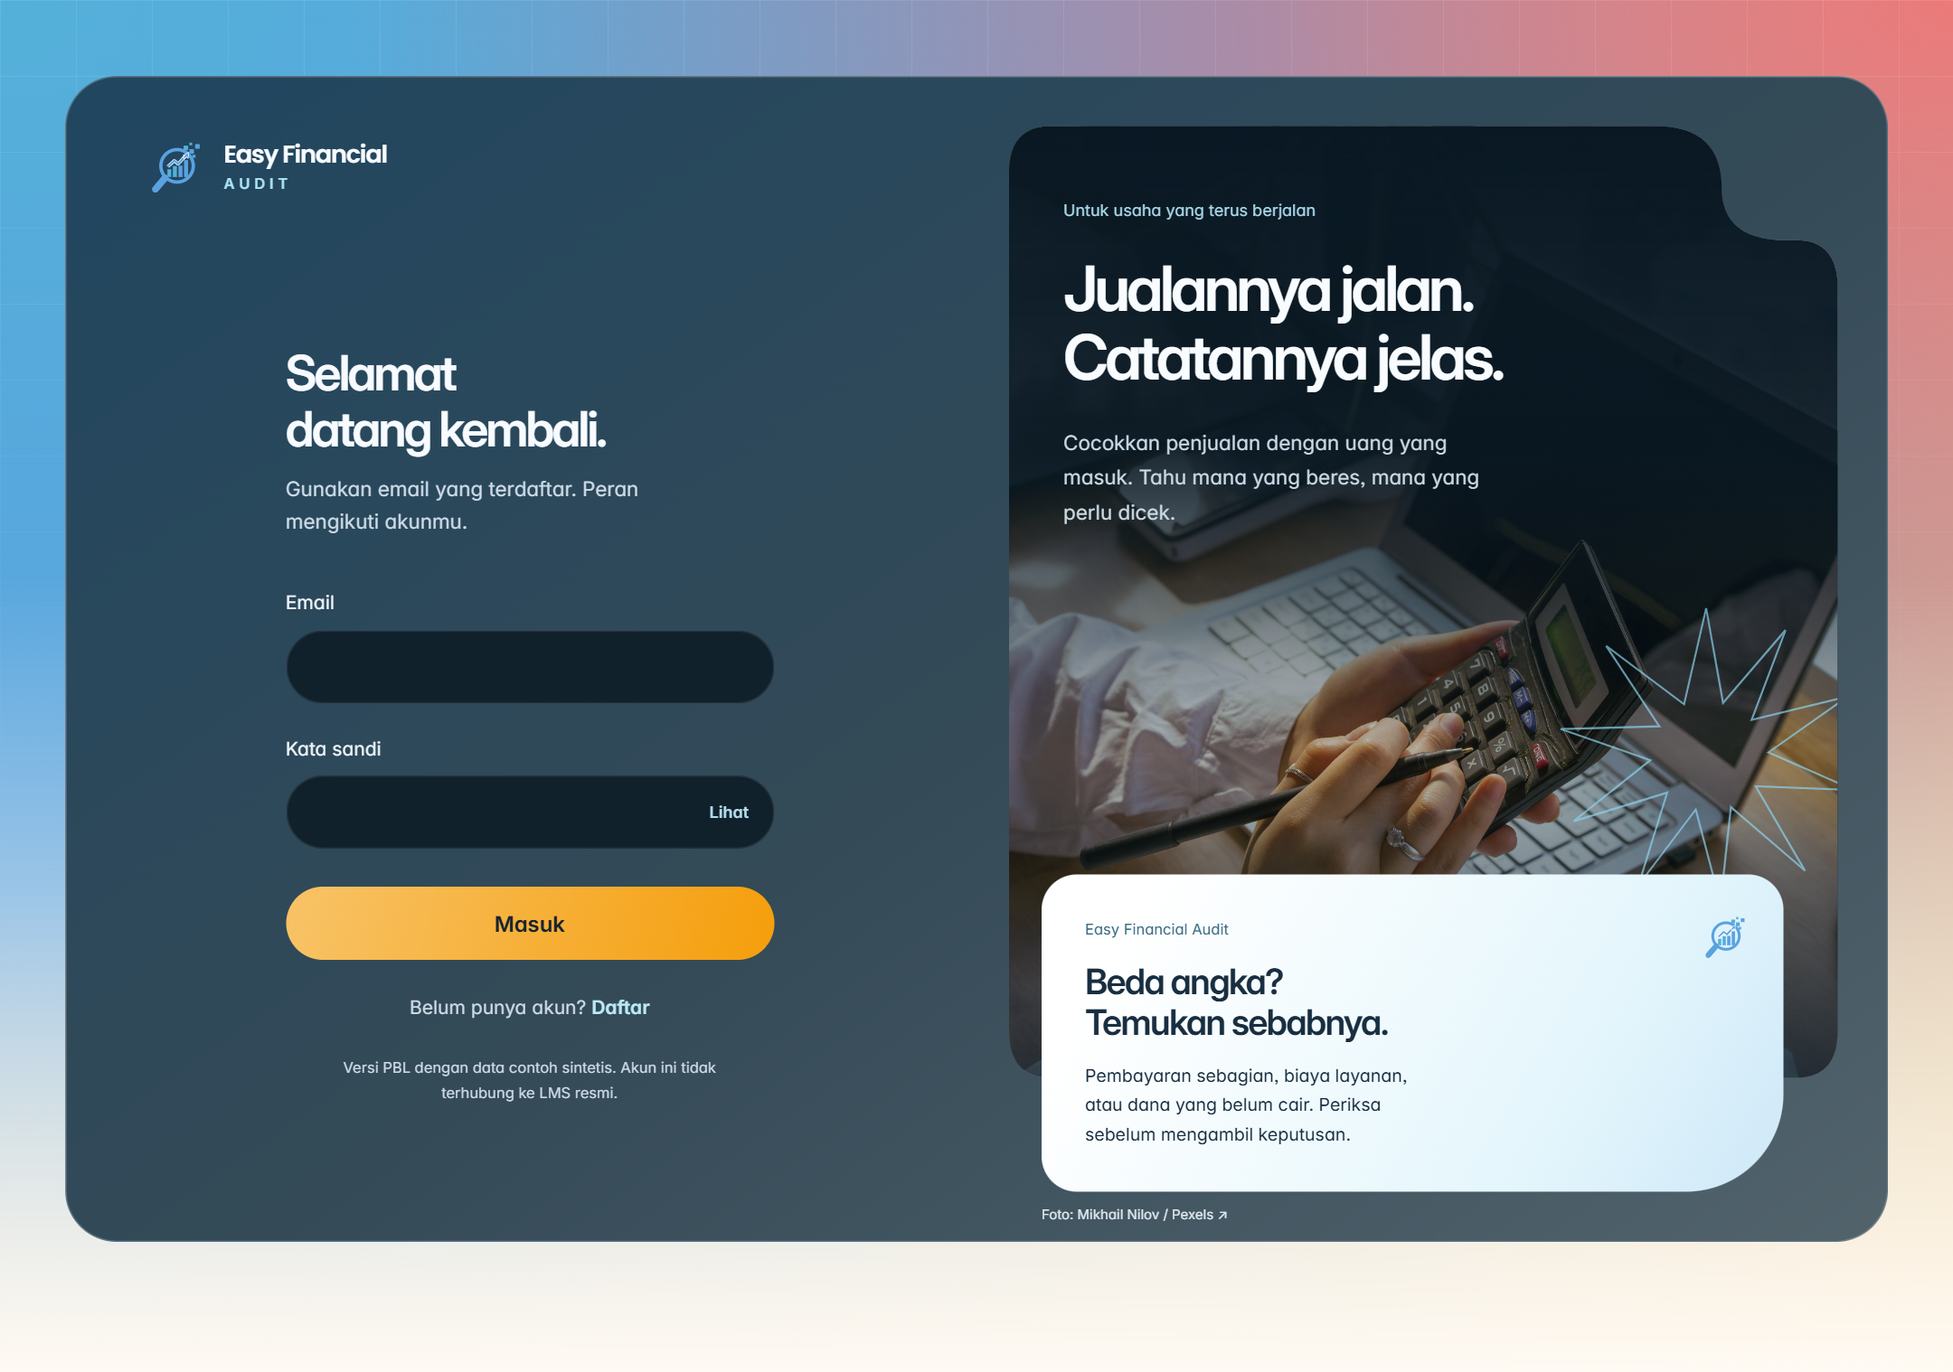
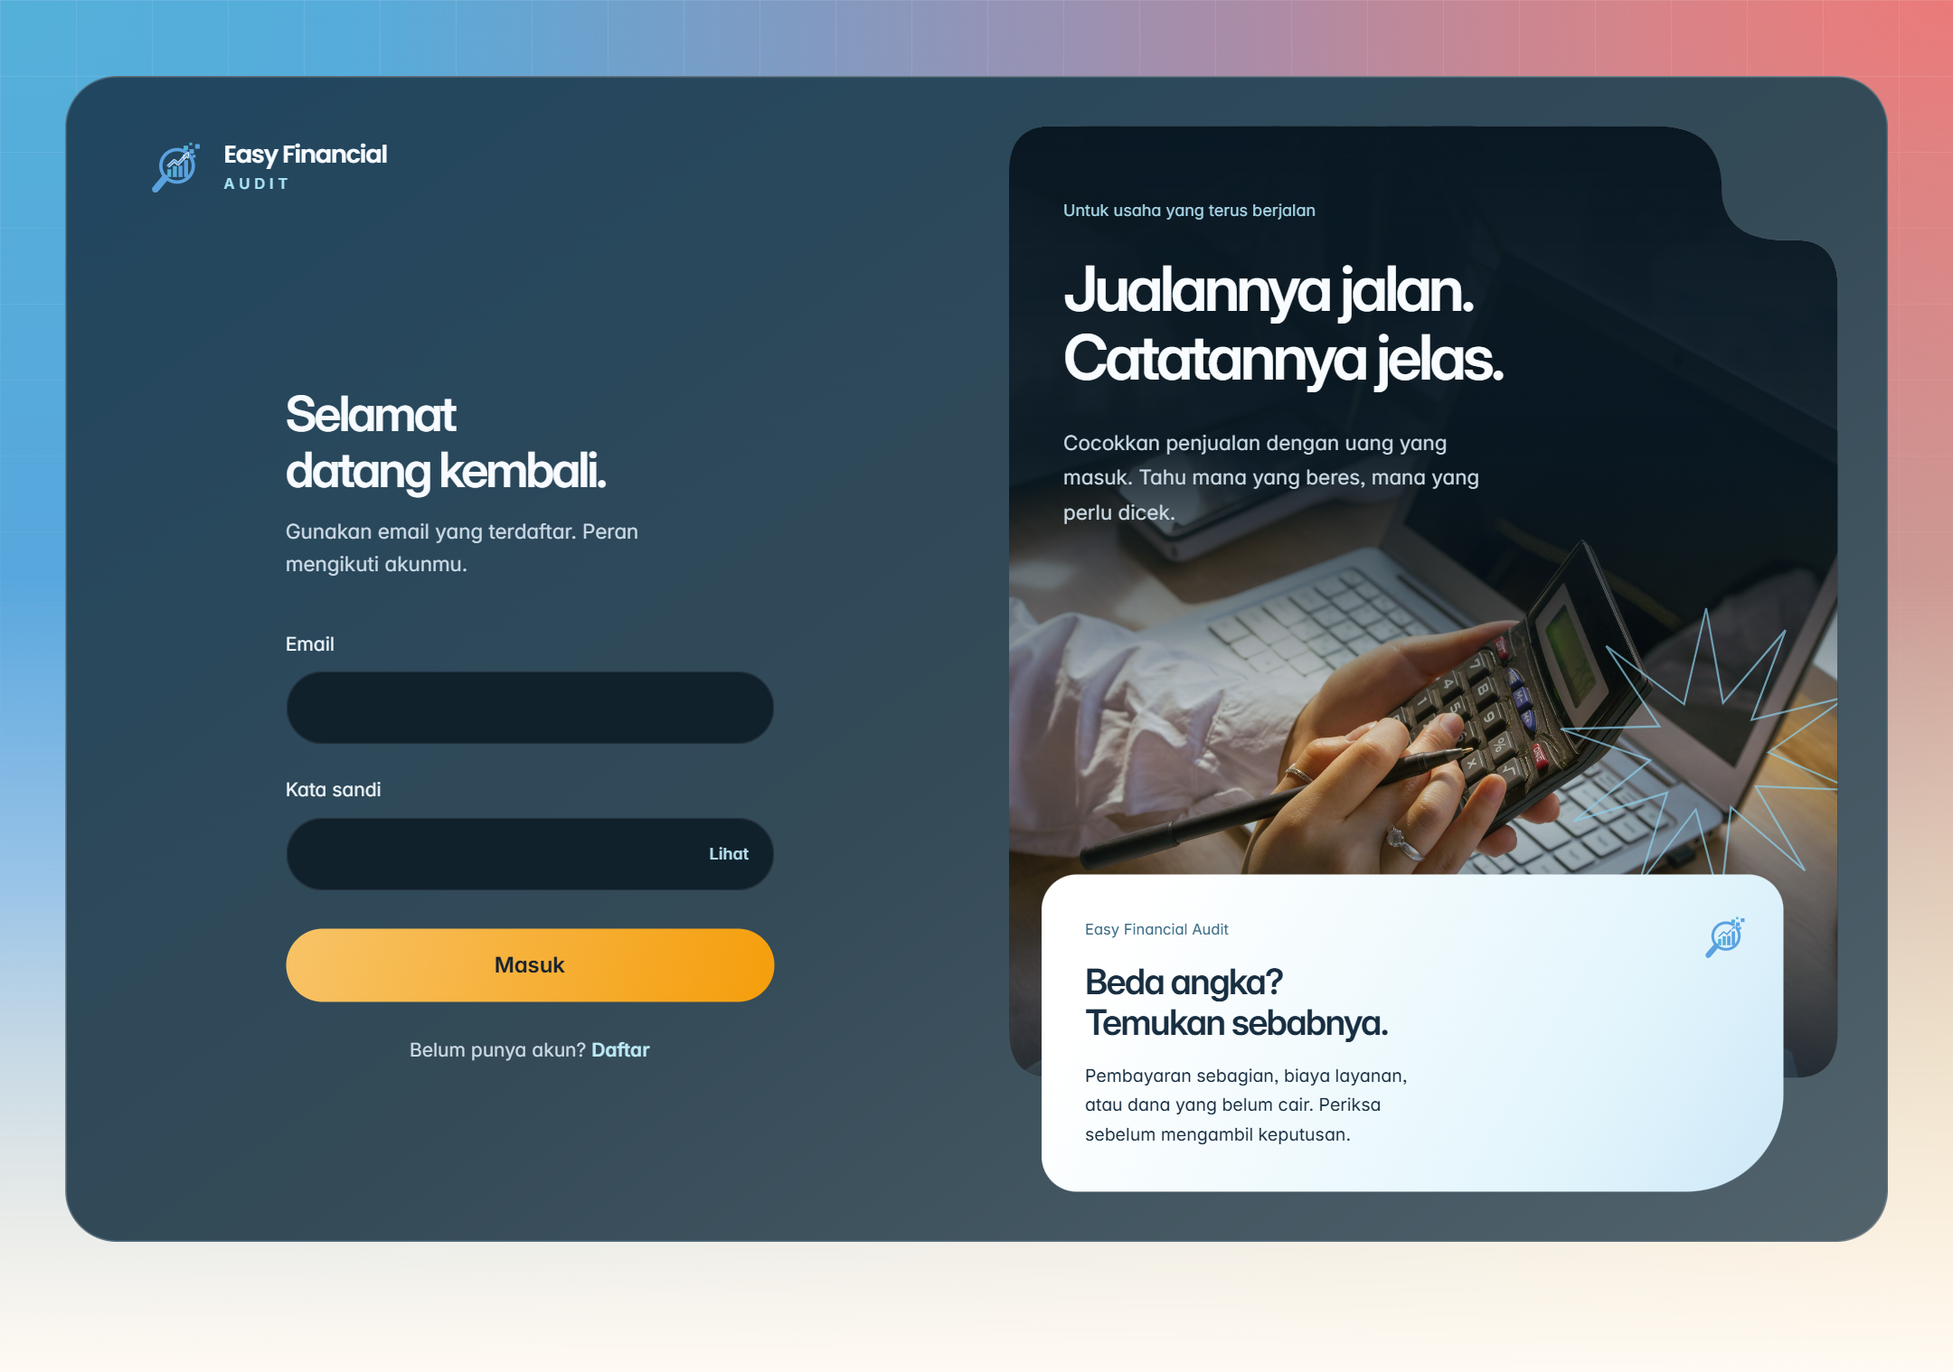
Polish app-wide motion and remove authentication captions

diff --git a/frontend/assets/auth.css b/frontend/assets/auth.css
@@ -104,7 +104,6 @@ body[data-kind="umkm"] .auth-umkm .primary {
 }
 body[data-kind="umkm"] .auth-umkm .auth-switch { font-size: 14px; color: var(--auth-muted); }
 body[data-kind="umkm"] .auth-umkm .auth-switch a { color: #bceaf7; font-weight: 600; }
-body[data-kind="umkm"] .auth-umkm .auth-inner > small { font-size: 11px; line-height: 1.7; color: var(--auth-muted); text-align: center; max-width: 45ch; justify-self: center; }
 body[data-kind="umkm"] .auth-umkm label > small { font-size: 12px; line-height: 1.5; color: var(--auth-muted); }
 body[data-kind="umkm"] .auth-umkm .error { color: #ffdfdf; background: #582d3a; border-color: #eb7a7a; }
 /* photo fills the editorial panel; the lighter note overlaps its bottom edge. */
@@ -120,7 +119,7 @@ body[data-kind="umkm"] .auth-umkm .auth-story { order: 2; position: relative; di
   clip-path: url(#auth-panel-cut);
 }
 .auth-shapes { position: absolute; }
-.auth-editorial::after { content: ""; position: absolute; inset: 0; z-index: -1; background: linear-gradient(180deg, #091823 0%, rgb(9 24 35 / .93) 34%, rgb(9 24 35 / .25) 66%, rgb(9 24 35 / .8) 100%); }
+.auth-editorial::after { content: ""; position: absolute; inset: 0; z-index: -1; background: linear-gradient(180deg, #091823 0%, rgb(9 24 35 / .93) 34%, rgb(9 24 35 / .08) 66%, rgb(9 24 35 / .8) 100%); }
 body[data-kind="umkm"] .auth-umkm .auth-story .auth-photo {
   position: absolute;
   inset: 0;
@@ -140,7 +139,6 @@ body[data-kind="umkm"] .auth-umkm .auth-story .auth-photo {
 .auth-editorial-copy h1 { font-family: InterVariable, sans-serif; font-size: 46px; font-weight: 600; line-height: 1.12; letter-spacing: -.055em; color: #f8fcff; margin: 22px 0 24px; text-wrap: balance; }
 .auth-editorial-copy p { max-width: 33ch; font-size: 15px; line-height: 1.7; color: #cadbe6; text-wrap: pretty; }
 .auth-spark { position: absolute; width: 230px; height: 230px; right: -18px; bottom: 126px; color: #8cd1ed; opacity: .7; pointer-events: none; }
-.auth-photo-credit { position: absolute; bottom: -24px; left: 24px; color: #e0eaf1; font-size: 10px; text-decoration: none; }
 .auth-note { position: absolute; z-index: 1; bottom: 0; left: 24px; right: 40px; padding: 28px 32px 32px; border-radius: 26px 26px 72px 26px; background: linear-gradient(120deg, #fff 12%, #e4f6fc 70%, #cee8f8); color: #182e41; }
 .auth-note > span { font-size: 11px; color: #356881; }
 .auth-note h2 { font-family: InterVariable,sans-serif; font-size: 26px; font-weight: 600; line-height: 1.15; letter-spacing: -.045em; margin: 14px 0; color: #182e41; max-width: calc(100% - 40px); }
@@ -149,7 +147,6 @@ body[data-kind="umkm"] .auth-umkm .auth-story .auth-note img { position: absolut
 @media (hover: hover) and (pointer: fine) {
   body[data-kind="umkm"] .auth-umkm .primary:hover { background: linear-gradient(105deg,#ffd58f,#ffb437); transform: translateY(-2px); }
   body[data-kind="umkm"] .auth-umkm .password-field button:hover { background: #204255; color: #fff; }
-  .auth-photo-credit:hover { text-decoration: underline; }
 }
 @media (max-width: 1100px) {
   body[data-kind="umkm"] .auth-umkm { width: calc(100% - 48px); padding: 28px; gap: 24px; margin-top: 32px; }
@@ -167,7 +164,6 @@ body[data-kind="umkm"] .auth-umkm .auth-story .auth-note img { position: absolut
   body[data-kind="umkm"] .auth-umkm .auth-inner { width: 420px; margin: 0; }
   body[data-kind="umkm"] .auth-umkm .auth-heading h2 { font-size: 34px; }
   body[data-kind="umkm"] .auth-umkm :is(label,.auth-heading p,.auth-switch) { font-size: 16px; }
-  body[data-kind="umkm"] .auth-umkm .auth-inner > small { font-size: 12px; }
   body[data-kind="umkm"] .auth-umkm .auth-story { padding-bottom: 70px; }
   .auth-editorial { min-height: 540px; }
   .auth-editorial-copy { padding: 32px 24px; }
@@ -177,7 +173,6 @@ body[data-kind="umkm"] .auth-umkm .auth-story .auth-note img { position: absolut
   .auth-note h2 { font-size: 25px; }
   .auth-note p { font-size: 13px; }
   .auth-note > span { font-size: 12px; }
-  .auth-photo-credit { font-size: 10px; left: 18px; bottom: -24px; }
   .auth-spark { width: 180px; height: 180px; bottom: 145px; }
 }
 @media (prefers-reduced-motion: reduce) {

diff --git a/frontend/assets/motion.js b/frontend/assets/motion.js
@@ -3,8 +3,10 @@ const reduced = matchMedia("(prefers-reduced-motion: reduce)");
 const active = new Set();
 let keyboard = false;
 let lastView = "";
+let revealObserver;
 const enter = "cubic-bezier(0.22, 1, 0.36, 1)";
 function settle() {
+  revealObserver?.disconnect();
   for (const animation of active) {
     try {
       animation.finish();
@@ -13,6 +15,29 @@ function settle() {
     }
   }
   active.clear();
+}
+// reveal only content that starts below the fold; never hide anything while waiting.
+function revealOnScroll(container) {
+  if (reduced.matches || keyboard || !window.IntersectionObserver) return;
+  const candidates = [...container.querySelectorAll(
+    ":scope > section, .cash-workspace > *, .cash-transaction, tbody tr, .auth-note",
+  )].filter((element) => element.getBoundingClientRect().top > innerHeight - 24);
+  const targets = candidates.filter((element) =>
+    !candidates.some((parent) => parent !== element && parent.contains(element)),
+  ).slice(0, 60);
+  const observer = new IntersectionObserver((entries) => {
+    for (const entry of entries) {
+      if (!entry.isIntersecting) continue;
+      observer.unobserve(entry.target);
+      if (!entry.target.isConnected) continue;
+      play(entry.target, [
+        { opacity: .35, transform: "translateY(12px)" },
+        { opacity: 1, transform: "translateY(0)" },
+      ], 320);
+    }
+  }, { threshold: .1 });
+  revealObserver = observer;
+  targets.forEach((element) => observer.observe(element));
 }
 document.addEventListener(
   "keydown",
@@ -76,6 +101,7 @@ export function presentView(container, view) {
       Math.min(index * 35, 140),
     );
   });
+  revealOnScroll(container);
 }
 export function presentAuth(container, register) {
   if (document.body.dataset.kind !== "umkm") return;
@@ -90,12 +116,21 @@ export function presentAuth(container, register) {
     ],
     600,
   );
-  play(
-    container.querySelector(".auth-note"),
+  const note = container.querySelector(".auth-note");
+  if (note?.getBoundingClientRect().top < innerHeight) play(
+    note,
     [{ opacity: 0, transform: "translateY(16px)" }, { opacity: 1, transform: "translateY(0)" }],
     460,
     90,
   );
+  play(container.querySelector(".auth-editorial-copy"), [
+    { opacity: 0, transform: "translateY(10px)" },
+    { opacity: 1, transform: "translateY(0)" },
+  ], 400, 50);
+  play(container.querySelector(".auth-form > .efa-brand"), [
+    { opacity: 0, transform: "translateY(-6px)" },
+    { opacity: 1, transform: "translateY(0)" },
+  ], 300);
   const parts = container.querySelectorAll(
     ".auth-heading, .auth-inner > form, .auth-switch",
   );
@@ -113,4 +148,5 @@ export function presentAuth(container, register) {
       Math.min(index * 45, 90),
     );
   });
+  revealOnScroll(container);
 }

diff --git a/frontend/assets/motion.css b/frontend/assets/motion.css
@@ -148,6 +148,34 @@ body[data-kind="umkm"] form[data-busy="true"] button[type="submit"]::after {
     background-color: #0054d1;
   }
 }
+/* shared feedback across all seven views; content never waits for an animation. */
+body[data-kind="umkm"] .efa-brand img {
+  transition: transform 220ms var(--motion-enter);
+}
+body[data-kind="umkm"] :is(.cash-subnav .nav-icon, .balance-link span) {
+  transition: transform 180ms var(--motion-enter);
+}
+body[data-kind="umkm"] .toast {
+  transition: opacity 180ms var(--motion-enter), transform 180ms var(--motion-enter);
+}
+body[data-kind="umkm"] .password-field button {
+  transition: transform 130ms var(--motion-enter), color 150ms ease, background-color 150ms ease;
+}
+@media (hover: hover) and (pointer: fine) {
+  body[data-kind="umkm"] :is(button, .button):hover:not(:disabled) {
+    transform: translateY(-1px);
+  }
+  body[data-kind="umkm"] .efa-brand:hover img {
+    transform: rotate(-4deg) scale(1.04);
+  }
+  body[data-kind="umkm"] .cash-subnav .navlink:hover .nav-icon {
+    transform: translateY(-2px);
+  }
+}
+body[data-kind="umkm"] :is(button, .button):active:not(:disabled),
+body[data-kind="umkm"] .auth-umkm .primary:active:not(:disabled) {
+  transform: scale(.975);
+}
 body[data-kind="umkm"][data-input="keyboard"] *,
 body[data-kind="umkm"][data-input="keyboard"] *::before,
 body[data-kind="umkm"][data-input="keyboard"] *::after,
@@ -156,6 +184,9 @@ body[data-kind="umkm"][data-input="keyboard"] dialog::backdrop {
   animation: none !important;
 }
 @media (prefers-reduced-motion: reduce) {
+  body[data-kind="umkm"] :is(button, .button, .efa-brand img, .nav-icon):hover {
+    transform: none !important;
+  }
   body[data-kind="umkm"] *,
   body[data-kind="umkm"] *::before,
   body[data-kind="umkm"] *::after,

diff --git a/frontend/assets/auth-scene.js b/frontend/assets/auth-scene.js
@@ -3,7 +3,7 @@ export function authScene(register = false) {
   return `<section class="auth-story" aria-label="Tentang Easy Financial Audit">
     <svg class="auth-shapes" width="0" height="0" aria-hidden="true"><defs><clipPath id="auth-panel-cut" clipPathUnits="objectBoundingBox"><path d="M.05 0H.78Q.86 0 .86 .065Q.86 .12 .94 .12H.95Q1 .12 1 .17V.95Q1 1 .95 1H.05Q0 1 0 .95V.05Q0 0 .05 0Z"/></clipPath></defs></svg>
     <div class="auth-editorial">
-      <img class="auth-photo" src="/assets/${register ? "efa-finance-notes.jpg" : "efa-finance-desk.jpg"}" width="2400" height="3600" alt="" fetchpriority="high">
+      <img class="auth-photo" src="/assets/${register ? "efa-finance-notes.jpg" : "efa-finance-desk.jpg"}" srcset="/assets/${register ? "efa-finance-notes.jpg" : "efa-finance-desk.jpg"} 2400w, /assets/${register ? "efa-finance-notes-hd.jpg" : "efa-finance-desk-hd.jpg"} 4000w" sizes="(min-width: 1530px) 640px, (min-width: 801px) 46vw, 90vw" width="4000" height="6000" alt="" fetchpriority="high">
       <div class="auth-editorial-copy">
         <span class="auth-kicker">Untuk usaha yang terus berjalan</span>
         <h1>Jualannya jalan.<br>Catatannya jelas.</h1>
@@ -18,6 +18,5 @@ export function authScene(register = false) {
       <p>Pembayaran sebagian, biaya layanan, atau dana yang belum cair. Periksa sebelum mengambil keputusan.</p>
       <img src="/assets/efa-mark.svg" width="50" height="50" alt="">
     </div>
-      <a class="auth-photo-credit" href="${register ? "https://www.pexels.com/photo/a-person-working-on-the-documents-using-a-calculator-8297220/" : "https://www.pexels.com/photo/person-using-a-calculator-and-a-laptop-8296991/"}" target="_blank" rel="noopener noreferrer">Foto: Mikhail Nilov / Pexels ↗</a>
   </section>`;
 }

diff --git a/frontend/index.html b/frontend/index.html
@@ -9,9 +9,9 @@
       content="Easy Financial Audit: cocokkan penjualan dan uang masuk, telusuri selisih, dan simpan keputusan rekonsiliasi."
     />
     <title>Easy Financial Audit</title>
-    <link rel="icon" type="image/svg+xml" href="/assets/favicon.svg?v=efa3" />
-    <link rel="alternate icon" type="image/png" sizes="32x32" href="/assets/favicon-32.png?v=efa3" />
-    <link rel="apple-touch-icon" sizes="180x180" href="/assets/apple-touch-icon.png?v=efa3" />
+    <link rel="icon" type="image/svg+xml" href="/assets/favicon.svg?v=efa4" />
+    <link rel="alternate icon" type="image/png" sizes="32x32" href="/assets/favicon-32.png?v=efa4" />
+    <link rel="apple-touch-icon" sizes="180x180" href="/assets/apple-touch-icon.png?v=efa4" />
     <link
       rel="preload"
       href="/assets/InterVariable.woff2"
@@ -19,12 +19,12 @@
       type="font/woff2"
       crossorigin
     />
-    <link rel="stylesheet" href="/assets/style.css?v=efa3" />
-    <link rel="stylesheet" href="/assets/brand.css?v=efa3" />
-    <link rel="stylesheet" href="/assets/motion.css?v=efa3" />
-    <link rel="stylesheet" href="/assets/efa.css?v=efa3" />
-    <link rel="stylesheet" href="/assets/auth.css?v=efa3" />
-    <script type="module" src="/assets/app.js?v=efa3"></script>
+    <link rel="stylesheet" href="/assets/style.css?v=efa4" />
+    <link rel="stylesheet" href="/assets/brand.css?v=efa4" />
+    <link rel="stylesheet" href="/assets/motion.css?v=efa4" />
+    <link rel="stylesheet" href="/assets/efa.css?v=efa4" />
+    <link rel="stylesheet" href="/assets/auth.css?v=efa4" />
+    <script type="module" src="/assets/app.js?v=efa4"></script>
   </head>
   <body>
     <a class="skip" href="#main">Lewati navigasi</a>

diff --git a/frontend/assets/app.js b/frontend/assets/app.js
@@ -1,7 +1,7 @@
-import { authScene } from "./auth-scene.js?v=efa3";
-import { dashboard, maxyBrand, shell } from "./design.js?v=efa3";
+import { authScene } from "./auth-scene.js?v=efa4";
+import { dashboard, maxyBrand, shell } from "./design.js?v=efa4";
 
-import { presentView, presentAuth } from "./motion.js?v=efa3";
+import { presentView, presentAuth } from "./motion.js?v=efa4";
 
 const root = document.querySelector("#app");
 
@@ -626,7 +626,7 @@ function auth(register = false) {
     (register ? "#login" : "#register") +
     '">' +
     (register ? "Masuk" : "Daftar") +
-    "</a></p><small>Prototipe PBL. Jangan unggah data keuangan nyata tanpa izin pemiliknya.</small></div></section>" + authScene(register) + "</main>";
+    "</a></p></div></section>" + authScene(register) + "</main>";
   presentAuth(root, register);
 }
 function startEvents() {

diff --git a/docs/ui-guide/auth-refresh/README.md b/docs/ui-guide/auth-refresh/README.md
@@ -1,6 +1,6 @@
 # Login dan daftar — EFA editorial
 
-Screenshot LIVE dari https://efa.madgo.my.id/, 27 Oktober 2026.
+Screenshot LIVE dari https://efa.madgo.my.id/, 28 Oktober 2026.
 Form daftar tidak dikirim dan data keuangan tidak diubah saat pengujian.
 
 | Halaman | Desktop 1440 px | HP 375 px |
@@ -8,20 +8,28 @@ Form daftar tidak dikirim dan data keuangan tidak diubah saat pengujian.
 | Masuk | [PNG](login-1440.png) | [PNG](login-375.png) |
 | Daftar | [PNG](register-1440.png) | [PNG](register-375.png) |
 
-Pengujian juga mencakup tablet 768 px. Keenam kombinasi halaman/ukuran
-layar tidak mengalami overflow atau error JavaScript. Login akun demo
+Pengujian mencakup lebar 320, 375, 768 dan 1440 px. Login akun demo
 di live berhasil membuka dashboard. Tombol lihat/sembunyikan sandi,
 navigasi login–daftar, validasi input wajib, dan reduced motion diuji
 pada preview lokal dengan source UI yang sama. Registrasi akun baru
 tidak diuji di production.
 
+Pemeriksaan live terakhir mencakup 36 kombinasi: login, daftar, dan tujuh
+halaman utama pada empat lebar layar. Tidak ditemukan overflow halaman,
+page error JavaScript, atau respons HTTP gagal selain 401 awal yang memang
+diharapkan sebelum login. Dialog impor/pengaturan dapat dibuka dan ditutup,
+menu HP dapat dibuka dan ditutup, serta reduced motion tidak menyisakan
+animasi berjalan. Pengujian ini tidak mengirim perubahan transaksi.
+
 Komposisi mengikuti referensi pengguna: form kiri, input pil, panel foto
 kanan dengan takikan melengkung, dan kartu terang yang menumpuk. Foto
-login dan daftar berbeda, keduanya 2400 x 3600 dari Mikhail Nilov/Pexels.
+login dan daftar berbeda, dengan pilihan 2400 x 3600 atau 4000 x 6000
+melalui srcset, dari Mikhail Nilov/Pexels. Kredit disimpan di ASSETS.md;
+caption foto dan catatan PBL telah dihapus dari halaman login/daftar.
 Di HP form tampil lebih dahulu, dilanjutkan panel visual; seluruh isi
 tetap bisa digulir. Tidak ada testimoni atau angka keberhasilan rekaan.
 
-Deployment: `dpl_B1wtobXbhVajRQBGMpDajtXtmTWc`.
+Deployment: `dpl_Ca6ZyoiDM7Zc9WYNBHEToTauUjpi`.
 Source Go prototype yang dideploy tetap berbeda dari backend integrasi
 tim di repository ini; perubahan ini menyamakan UI kedua source.
 

diff --git a/docs/BRAND.md b/docs/BRAND.md
@@ -49,7 +49,7 @@ frontend/assets/efa.css menjadi lapisan tema EFA setelah style.css,
 brand.css, dan motion.css. Komposisi layout dan interaksi tidak diganti.
 design.js menyusun logo header, index.html memuat favicon serta metadata.
 
-Cache URL aset memakai versi efa3. Saat mengganti aset berikutnya,
+Cache URL aset memakai versi efa4. Saat mengganti aset berikutnya,
 perbarui versi agar cache browser memvalidasi file baru.
 
 ## Live dan source tim
@@ -84,5 +84,15 @@ memiliki alur backend.
 Foto dan kartu memakai animasi masuk transform/opacity. Animasi dibatalkan
 saat pengguna memakai keyboard dan mengikuti reduced motion. Tidak ada
 animasi dekoratif berulang atau tambahan library animasi.
+
+Caption foto dan catatan PBL tidak ditampilkan pada halaman autentikasi.
+Sumber foto tetap terdokumentasi di ASSETS.md. Foto memakai srcset 2400/4000
+piksel agar layar tajam tersedia tanpa selalu mengirim file terbesar ke HP.
+
+Navigasi, tombol, toast, modal, menu HP, dan pergantian halaman memakai
+feedback konsisten. Bagian yang mulai di bawah viewport diberi reveal
+singkat saat digulir menggunakan IntersectionObserver. Elemen tetap terlihat
+tanpa observer, tidak ada state bisnis yang ditunda, dan observer lama
+dilepas ketika halaman diganti atau pengguna memakai keyboard/reduced motion.
 
 Snapshot terbaru login/daftar: [auth-refresh](ui-guide/auth-refresh/).

diff --git a/frontend/ASSETS.md b/frontend/ASSETS.md
@@ -20,11 +20,12 @@ palet sekarang mengikuti Easy Financial Audit; lihat ../docs/BRAND.md.
 | auth.css, auth-scene.js | Form kiri, panel foto bertakik kanan dan kartu bertumpuk, khusus login/daftar |
 | efa-finance-desk.jpg | Foto Mikhail Nilov / Pexels, ID 8296991; versi lokal 2400 x 3600 untuk login |
 | efa-finance-notes.jpg | Foto Mikhail Nilov / Pexels, ID 8297220; versi lokal 2400 x 3600 untuk daftar |
+| efa-finance-desk-hd.jpg, efa-finance-notes-hd.jpg | Sumber 4000 x 6000; browser memilih melalui srcset sesuai kebutuhan layar |
 
 Branding menunjukkan konteks PBL, bukan klaim layanan keuangan resmi MAXY. Aset prototipe Grader/Facility tidak disertakan.
 
 Foto baru berasal dari [halaman laptop dan kalkulator](https://www.pexels.com/photo/person-using-a-calculator-and-a-laptop-8296991/)
 dan [halaman pencatatan keuangan](https://www.pexels.com/photo/a-person-working-on-the-documents-using-a-calculator-8297220/),
-diunduh sesuai [lisensi Pexels](https://www.pexels.com/license/). Kredit ditampilkan
-pada masing-masing halaman. Foto adalah referensi visual, bukan pengguna EFA
+diunduh sesuai [lisensi Pexels](https://www.pexels.com/license/). Kredit dan tautan
+sumber disimpan di berkas ini. Foto adalah referensi visual, bukan pengguna EFA
 atau bukti penerapan pada perusahaan tertentu.
